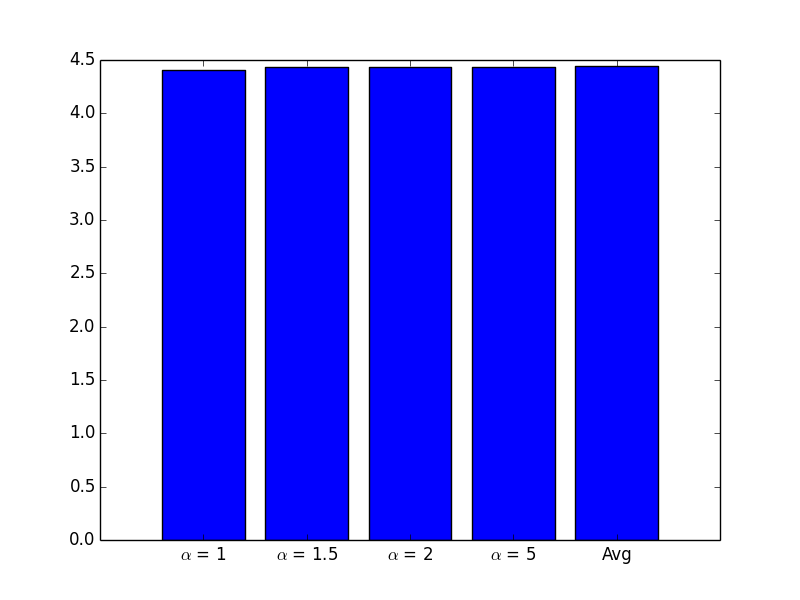
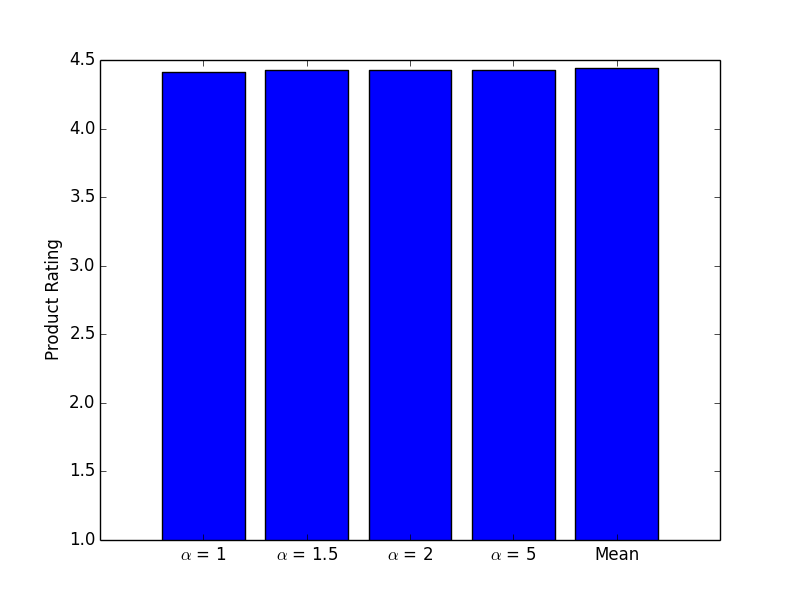
Adjusted product rating axis to origin from 1 (min rating)

diff --git a/Reputation_Metrics/Programming/Graph.py b/Reputation_Metrics/Programming/Graph.py
@@ -45,7 +45,10 @@ for (key, ratings) in products.items():
 	data = ratings + [avgs[key]]
 	pyplot.bar(range(len(data)), data, align='center')
 	xticks = map(lambda x: "$\\alpha$ = " + str(x), alphas)
-	pyplot.xticks(range(len(data) + 1), (xticks + ["Avg"]))
+	pyplot.xticks(range(len(data) + 1), (xticks + ["Mean"]))
+	#pyplot.xlabel("$\\alpha$ Value")
+	pyplot.ylabel("Product Rating")
+	pyplot.ylim(ymin=1)
 	pyplot.show()
 
 
